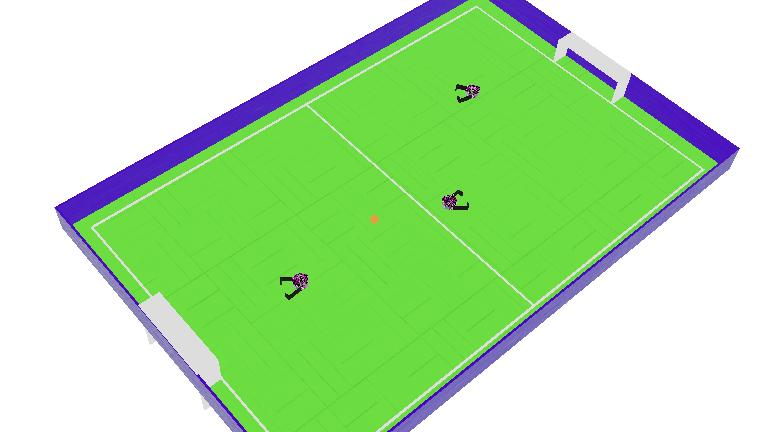
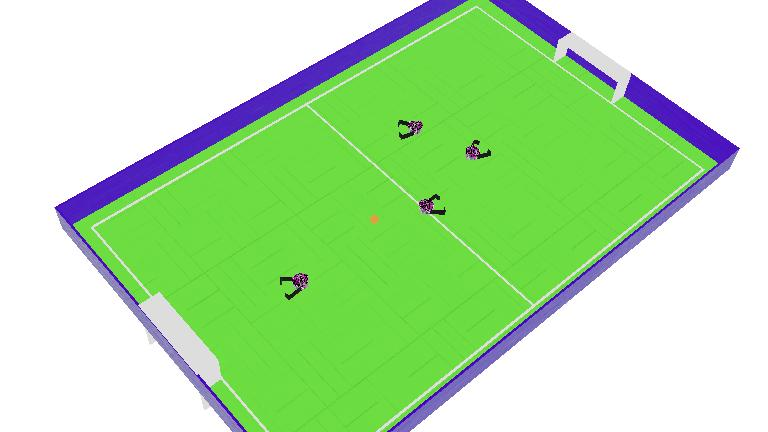
APF improvement

diff --git a/controllers/APF/APF.py b/controllers/APF/APF.py
@@ -29,22 +29,23 @@ right_motor.setPosition(float('inf'))
 DEBUG = True
 
 # ================= PARAMETERS =================
-GOAL_POS = [-1.2, 0.0, 0.0]
+GOAL_POS = [1.2, 0.0, 0.0]
 
 OBSTACLES = [
-    [0.1, -0.15, 0.0],
-    [0.7, 0.3, 0.0]
+    [0.3, 0.3, 0.0],
+    [0.0, -0.1, 0.0],
+    [0.4, 0.0, 0.0]
 ]
 
 MAX_SPEED = 21.0
 DRIBBLE_SPEED = 10.0
 SEARCH_SPEED = 4.0
 IN_POCKET_LIMIT = 3500
-BALL_CLOSE_PIXELS = 400000
+BALL_CLOSE_PIXELS = 150000
 
-REPULSION_RADIUS = 0.3
-K_ATTRACT = 1.2
-K_REPEL = 0.2
+REPULSION_RADIUS = 0.5
+K_ATTRACT = 1.5
+K_REPEL = 0.5
 
 ESCAPE_GAIN = 0.6
 MIN_FORCE_THRESHOLD = 0.08
@@ -144,7 +145,7 @@ while robot.step(timestep) != -1:
     # ---- CONTROL ----
     if state == "NAVIGATE":
         fx, fy = calculate_apf_vector(curr_pos)
-        target_angle = math.atan2(fx, fy)
+        target_angle = math.atan2(fy, fx)
 
         angle_error = (target_angle - heading + math.pi) % (2*math.pi) - math.pi
 
